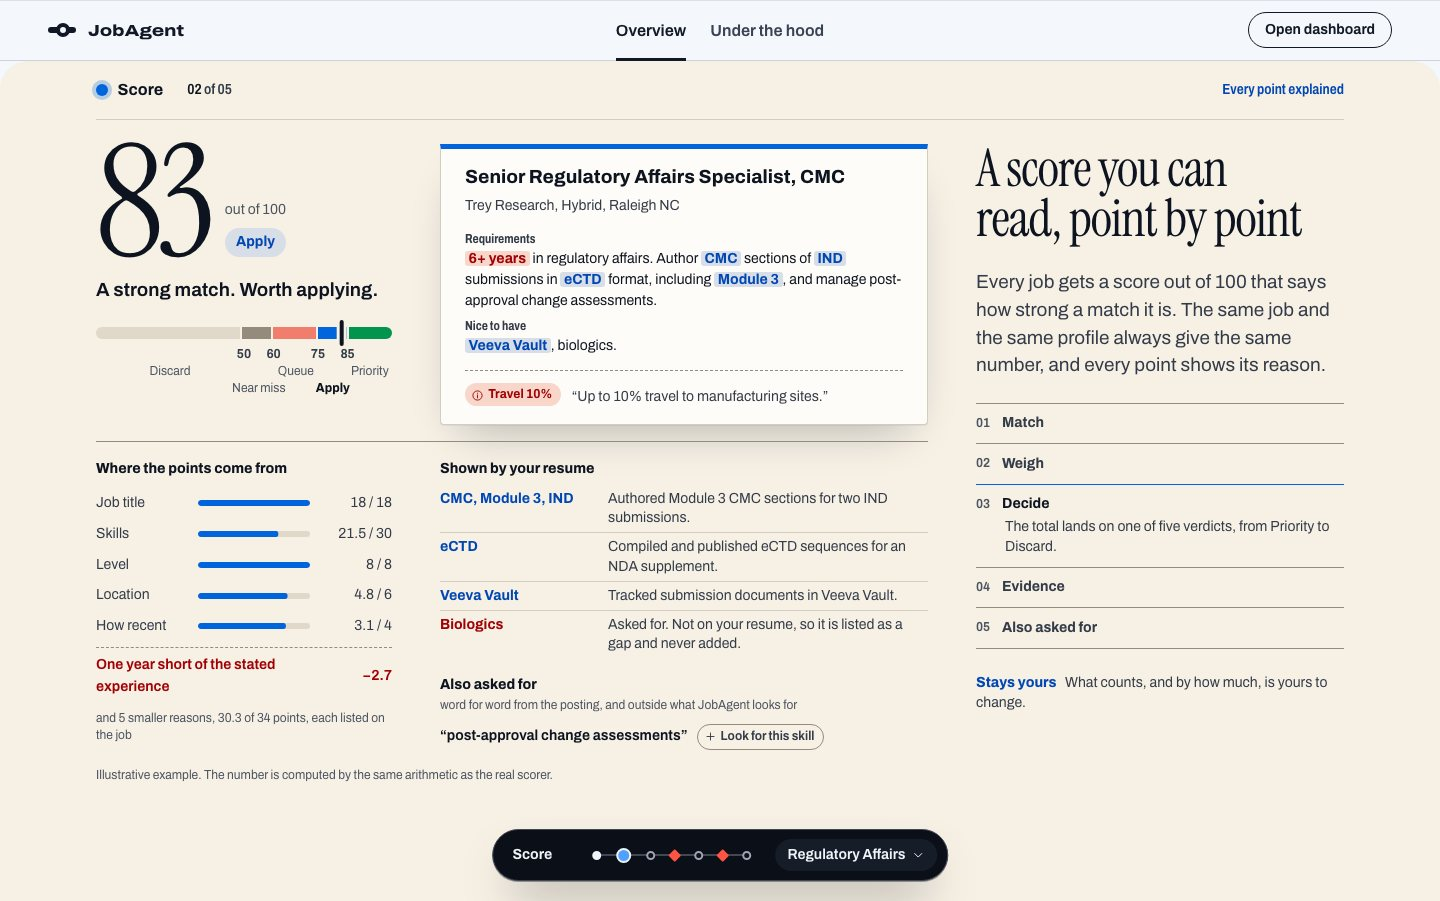
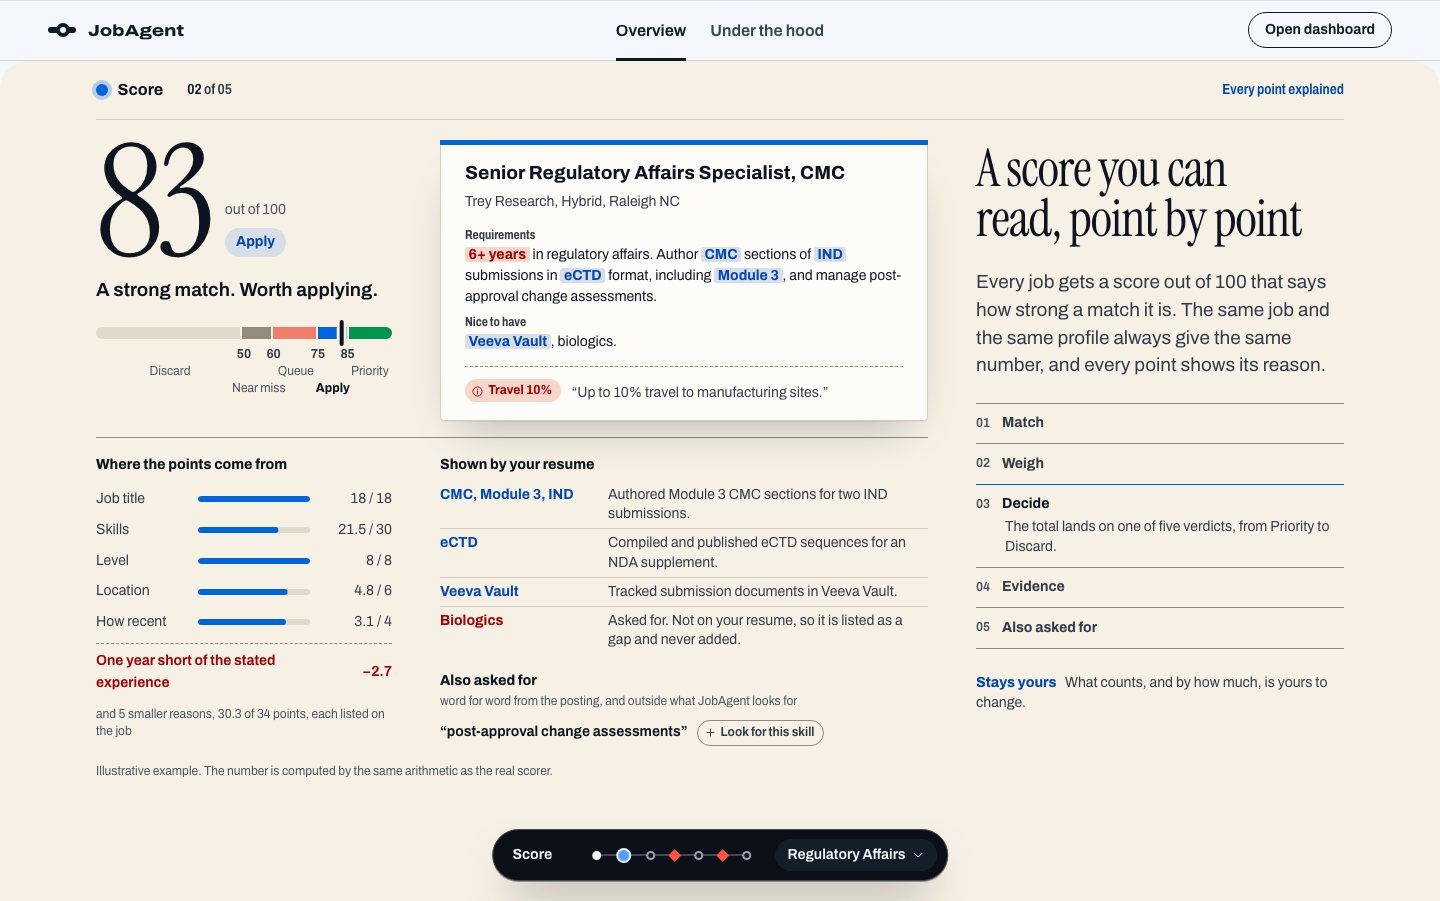
docs(explore): draw the preview card's line as its own rule, not a border
The detector reads a thick top border on any card with a corner radius
as an accent border. The line colour is now a separate straight rule on
the card's square top edge; the picture is unchanged.

Changed region(s): [[0.25, 0.1554, 0.6562, 0.7148], [0.0625, 0.4972, 0.5625, 0.8701]]

diff --git a/docs/explore/preview/preview.css b/docs/explore/preview/preview.css
@@ -135,9 +135,11 @@ html[data-shot] .pv-bar { display: none; }
 .ex-fcard-bars i { height: 3px; border-radius: 2px; background: var(--color-paper-3); }
 .ex-fcard-bars i:nth-child(2) { width: 72%; } .ex-fcard-bars i:nth-child(3) { width: 44%; }
 .ex-fcard.is-ours {
-  left: 15%; top: 21%; width: clamp(17rem, 25vw, 23rem); padding: 1.35rem 1.5rem 1.4rem; gap: 4px; border-top: 5px solid var(--line-find); border-radius: 0 0 10px 10px;
+  left: 15%; top: 21%; width: clamp(17rem, 25vw, 23rem); padding: 1.35rem 1.5rem 1.4rem; gap: 4px; border-radius: 0 0 10px 10px;
   transform: translateZ(110px) rotateY(-4deg); filter: none;
 }
+/* The line the posting travels on, as a straight rule along the card's top edge. */
+.ex-fcard.is-ours::before, .ex-posting::before { content: ''; position: absolute; left: -1px; right: -1px; bottom: 100%; height: 5px; background: var(--line-find); }
 .is-ours .ex-fcard-src { font-size: var(--text-sm); }
 .is-ours .ex-fcard-title { font-size: clamp(1.25rem, 1rem + .7vw, 1.6rem); line-height: 1.15; text-wrap: balance; }
 .is-ours .ex-fcard-co { font-size: var(--text-md); }
@@ -213,7 +215,7 @@ html[data-shot] .pv-bar { display: none; }
 .ex-ruler-nums span, .ex-ruler-names span { position: absolute; left: calc(var(--at) * 1%); top: 0; transform: translateX(-50%); white-space: nowrap; }
 .ex-ruler-names .is-low { top: 1.05rem; } .ex-ruler-names .is-current { color: var(--color-ink); font-weight: 760; }
 
-.ex-posting { display: grid; gap: 6px; padding: 1.1rem var(--space-md); background: var(--color-sheet); border: 1px solid var(--color-rule); border-top: 5px solid var(--line-find); border-radius: 0 0 var(--radius-surface) var(--radius-surface); box-shadow: var(--shadow-lift); font-size: var(--text-sm); line-height: 1.5; }
+.ex-posting { display: grid; gap: 6px; padding: 1.1rem var(--space-md); background: var(--color-sheet); position: relative; border: 1px solid var(--color-rule); border-radius: 0 0 var(--radius-surface) var(--radius-surface); box-shadow: var(--shadow-lift); font-size: var(--text-sm); line-height: 1.5; }
 .ex-posting-title { font-size: var(--text-lg); font-weight: 740; line-height: 1.2; }
 .ex-posting-co { color: var(--color-ink-2); margin-bottom: var(--space-2xs); }
 .ex-posting-label { display: block; font-size: var(--text-xs); font-weight: 720; font-stretch: var(--wdth-sign); color: var(--color-ink-2); }

diff --git a/docs/explore/preview/preview.html b/docs/explore/preview/preview.html
@@ -512,9 +512,11 @@ html[data-shot] .pv-bar { display: none; }
 .ex-fcard-bars i { height: 3px; border-radius: 2px; background: var(--color-paper-3); }
 .ex-fcard-bars i:nth-child(2) { width: 72%; } .ex-fcard-bars i:nth-child(3) { width: 44%; }
 .ex-fcard.is-ours {
-  left: 15%; top: 21%; width: clamp(17rem, 25vw, 23rem); padding: 1.35rem 1.5rem 1.4rem; gap: 4px; border-top: 5px solid var(--line-find); border-radius: 0 0 10px 10px;
+  left: 15%; top: 21%; width: clamp(17rem, 25vw, 23rem); padding: 1.35rem 1.5rem 1.4rem; gap: 4px; border-radius: 0 0 10px 10px;
   transform: translateZ(110px) rotateY(-4deg); filter: none;
 }
+/* The line the posting travels on, as a straight rule along the card's top edge. */
+.ex-fcard.is-ours::before, .ex-posting::before { content: ''; position: absolute; left: -1px; right: -1px; bottom: 100%; height: 5px; background: var(--line-find); }
 .is-ours .ex-fcard-src { font-size: var(--text-sm); }
 .is-ours .ex-fcard-title { font-size: clamp(1.25rem, 1rem + .7vw, 1.6rem); line-height: 1.15; text-wrap: balance; }
 .is-ours .ex-fcard-co { font-size: var(--text-md); }
@@ -590,7 +592,7 @@ html[data-shot] .pv-bar { display: none; }
 .ex-ruler-nums span, .ex-ruler-names span { position: absolute; left: calc(var(--at) * 1%); top: 0; transform: translateX(-50%); white-space: nowrap; }
 .ex-ruler-names .is-low { top: 1.05rem; } .ex-ruler-names .is-current { color: var(--color-ink); font-weight: 760; }
 
-.ex-posting { display: grid; gap: 6px; padding: 1.1rem var(--space-md); background: var(--color-sheet); border: 1px solid var(--color-rule); border-top: 5px solid var(--line-find); border-radius: 0 0 var(--radius-surface) var(--radius-surface); box-shadow: var(--shadow-lift); font-size: var(--text-sm); line-height: 1.5; }
+.ex-posting { display: grid; gap: 6px; padding: 1.1rem var(--space-md); background: var(--color-sheet); position: relative; border: 1px solid var(--color-rule); border-radius: 0 0 var(--radius-surface) var(--radius-surface); box-shadow: var(--shadow-lift); font-size: var(--text-sm); line-height: 1.5; }
 .ex-posting-title { font-size: var(--text-lg); font-weight: 740; line-height: 1.2; }
 .ex-posting-co { color: var(--color-ink-2); margin-bottom: var(--space-2xs); }
 .ex-posting-label { display: block; font-size: var(--text-xs); font-weight: 720; font-stretch: var(--wdth-sign); color: var(--color-ink-2); }
